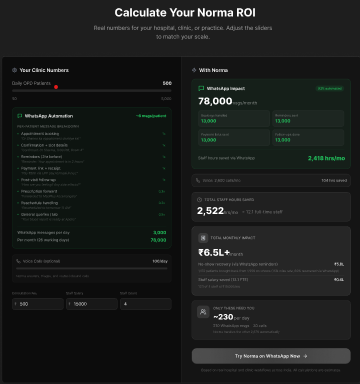
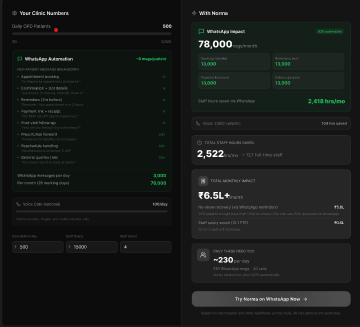
set macbook container big

diff --git a/components/ui/macbook-scroll.tsx b/components/ui/macbook-scroll.tsx
@@ -23,6 +23,7 @@ import { IconWorld } from "@tabler/icons-react";
 import { IconCommand } from "@tabler/icons-react";
 import { IconCaretLeftFilled } from "@tabler/icons-react";
 import { IconCaretDownFilled } from "@tabler/icons-react";
+import Image from "next/image";
 
 
 export const MacbookScroll = ({
@@ -67,7 +68,7 @@ const textTransform = useTransform(scrollYProgress, [0, 0.3], [0, 100]);
   return (
     <div
       ref={ref}
-      className="flex min-h-[200vh] shrink-0 scale-[0.35] transform flex-col items-center justify-start py-0 [perspective:800px] sm:scale-50 md:scale-100 md:py-80"
+      className="flex  min-h-[200vh] shrink-0 scale-[0.35] transform flex-col items-center justify-start py-0 [perspective:800px] sm:scale-50 md:scale-100 md:py-80"
     >
       <motion.h2
         style={{
@@ -91,7 +92,7 @@ const textTransform = useTransform(scrollYProgress, [0, 0.3], [0, 100]);
         translate={translate}
       />
       {/* Base area */}
-      <div className="relative -z-10 h-[22rem] w-[32rem] overflow-hidden rounded-2xl bg-gray-200 dark:bg-[#272729]">
+      <div className="relative -z-10 h-[30rem] w-[40rem] md:h-[30rem] md:w-[44rem] overflow-hidden rounded-2xl bg-gray-200 dark:bg-[#272729]">
         {/* above keyboard bar */}
         <div className="relative h-10 w-full">
           <div className="absolute inset-x-0 mx-auto h-4 w-[80%] bg-[#050505]" />
@@ -132,20 +133,20 @@ export const Lid = ({
   src?: string;
 }) => {
   return (
-    <div className="relative  [perspective:800px] ">
+    <div className="relative   [perspective:800px] ">
       <div
         style={{
           transform: "perspective(800px) rotateX(-25deg) translateZ(0px)",
           transformOrigin: "bottom",
           transformStyle: "preserve-3d",
         }}
-        className="relative h-[12rem] w-[32rem] aspect-[3684/3374] rounded-2xl bg-[#010101] p-2"
+        className="relative h-[20rem] w-[40rem]  md:h-[12rem] md:w-[48rem] aspect-[3684/3374] rounded-2xl bg-[#010101] p-2"
       >
         <div
           style={{
             boxShadow: "0px 2px 0px 2px #171717 inset",
           }}
-          className="absolute inset-0 flex items-center justify-center rounded-lg bg-[#010101]"
+          className="absolute inset-0 flex mx-10 my-7 md:mx-0 md:my-0  items-center justify-center rounded-lg bg-[#010101] "
         >
           <span className="text-white">
             <AceternityLogo />
@@ -161,13 +162,14 @@ export const Lid = ({
           transformStyle: "preserve-3d",
           transformOrigin: "top",
         }}
-        className="absolute inset-0 w-full aspect-square md:aspect-auto md:h-80 md:w-[32rem] rounded-2xl bg-[#010101] p-2"
+        className="absolute inset-0 w-full aspect-square md:aspect-[3684/3374] md:w-[48rem] rounded-2xl bg-[#010101] p-2"
       >
         <div className="absolute inset-0  rounded-lg bg-[#272729]" />
-        <img
+        <Image
+        fill
           src={src as string}
           alt="aceternity logo"
-          className="absolute inset-0 h-full w-full rounded-lg object-cover object-left-top"
+          className="absolute inset-0  h-full w-full rounded-lg object-cover object-left-top"
         />
       </motion.div>
     </div>
@@ -177,7 +179,7 @@ export const Lid = ({
 export const Trackpad = () => {
   return (
     <div
-      className="mx-auto my-1 h-32 w-[40%] rounded-xl"
+      className="mx-auto scale-150 my-1 h-32 w-[40%] rounded-xl"
       style={{
         boxShadow: "0px 0px 1px 1px #00000020 inset",
       }}
@@ -187,7 +189,7 @@ export const Trackpad = () => {
 
 export const Keypad = () => {
   return (
-    <div className="mx-1 h-full [transform:translateZ(0)] rounded-md bg-[#050505] p-1 [will-change:transform]">
+    <div className="mx-20 mt-25  scale-140  h-full [transform:translateZ(0)] rounded-md bg-[#050505] p-1 [will-change:transform]">
       {/* First Row */}
       <div className="mb-[2px] flex w-full shrink-0 gap-[2px]">
         <KBtn
@@ -588,7 +590,7 @@ export const KBtn = ({
 export const SpeakerGrid = () => {
   return (
     <div
-      className="mt-2 flex h-40 gap-[2px] px-[0.5px]"
+      className="mt-2 scale-150 flex h-40 gap-[2px] px-[0.5px]"
       style={{
         backgroundImage:
           "radial-gradient(circle, #08080A 0.5px, transparent 0.5px)",

diff --git a/app/components/ScrollNorma.tsx b/app/components/ScrollNorma.tsx
@@ -6,7 +6,7 @@ import { MacbookScroll } from "@/components/ui/macbook-scroll";
 // --- Screen dimension → translateY lookup ---
 const translateByHeight: Record<number, string> = {
   600: "xl:-translate-y-[20%] md:-translate-y-[25%] md:scale-70",
-  768: "xl:-translate-y-[17%]",
+  768: " xl:-translate-y-[17%]",
   800: "xl:-translate-y-[10%]",
   900: "xl:-translate-y-[10%]",
   1080: "xl:-translate-y-[-4%] xl:scale-140",
@@ -68,7 +68,7 @@ export default function ScrollNorma() {
     <section id="ROICalculator" className="w-full h-[150vh] md:h-auto bg-black overflow-clip">
       <div className={`w-full ] ${translateValue} scale-150 md:scale-80 -mt-[50%] md:-mt-0`}>
         <MacbookScroll
-          src="/assets/img/ScrollNorma/Norma_ROI.png"
+          src="/assets/img/ScrollNorma/NormaDisplay.png"
           title={
             <span className="md:block text-[30px] leading-[24px] tracking-[1%] md:text-[40px] md:leading-[44px] md:tracking-[1%] text-[#FFFFFF] mx-auto text-center">
               Calculate Your Norma ROI
